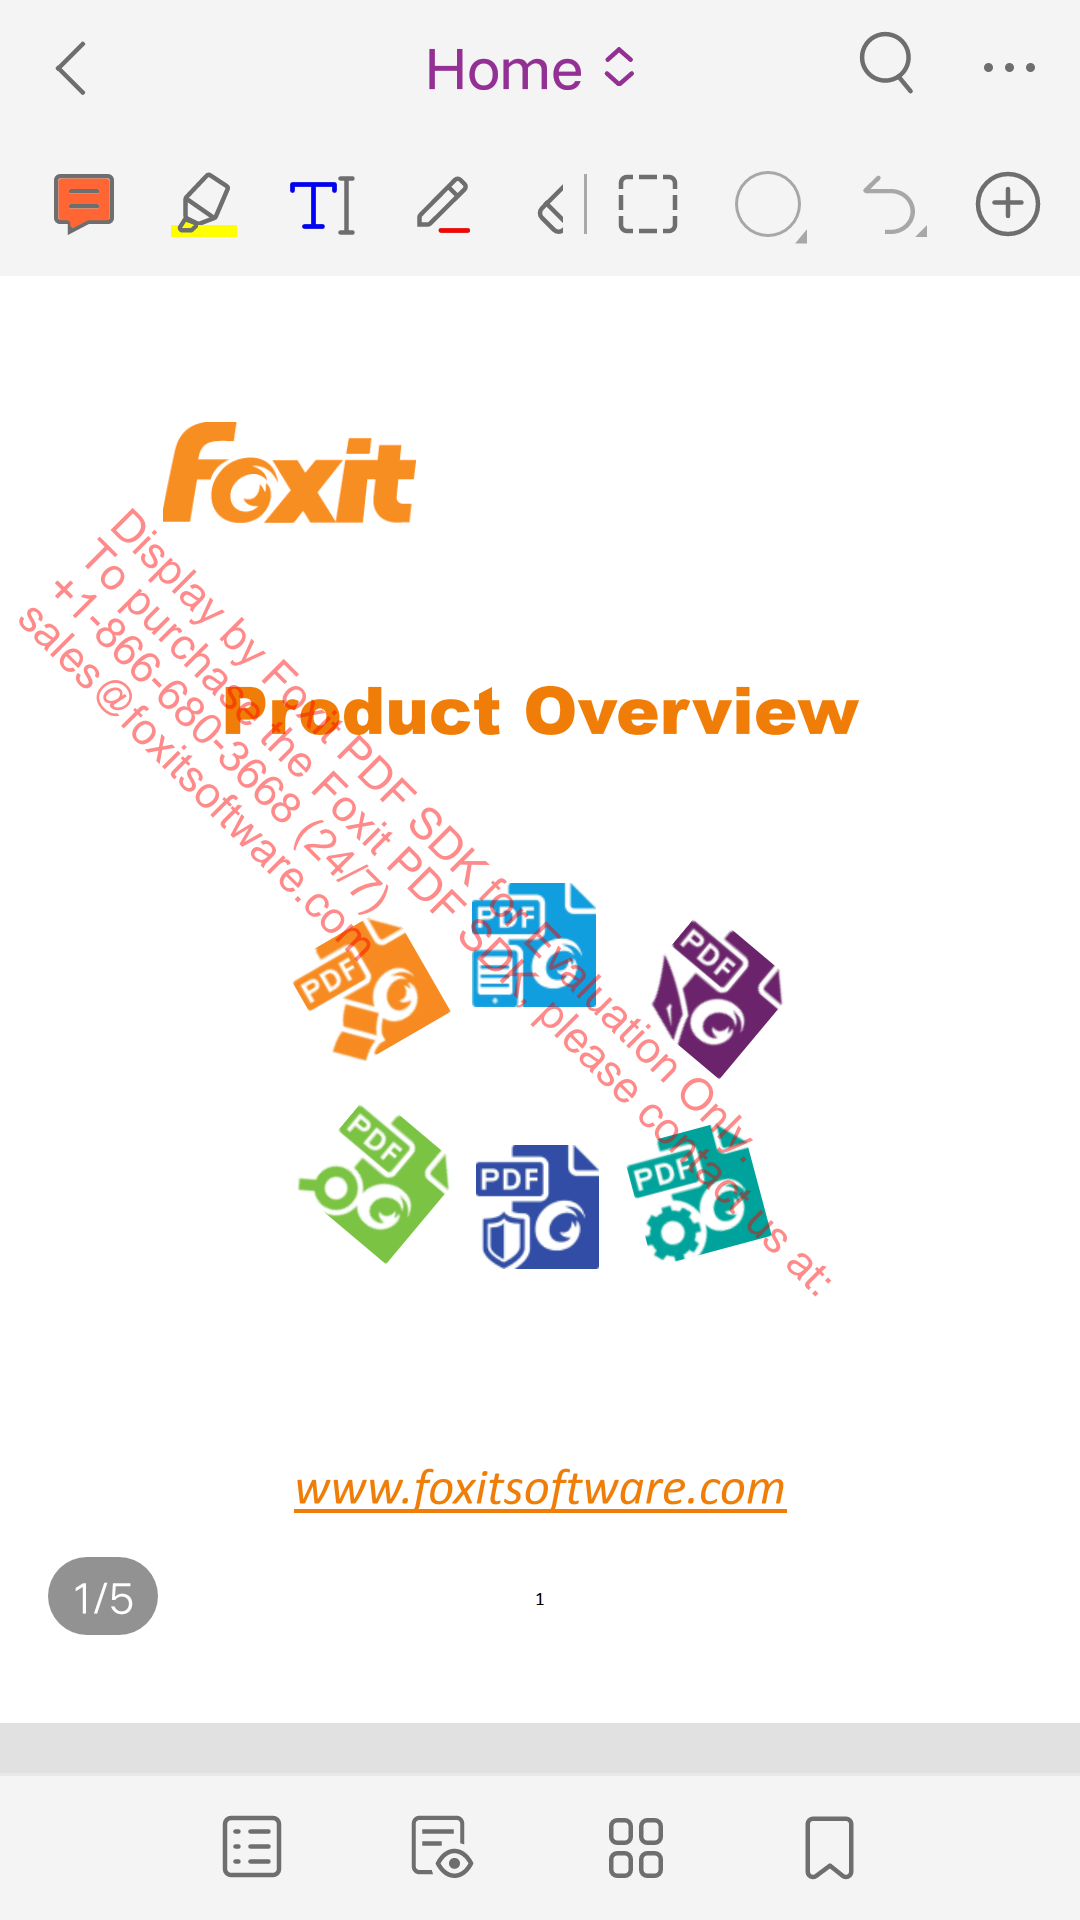
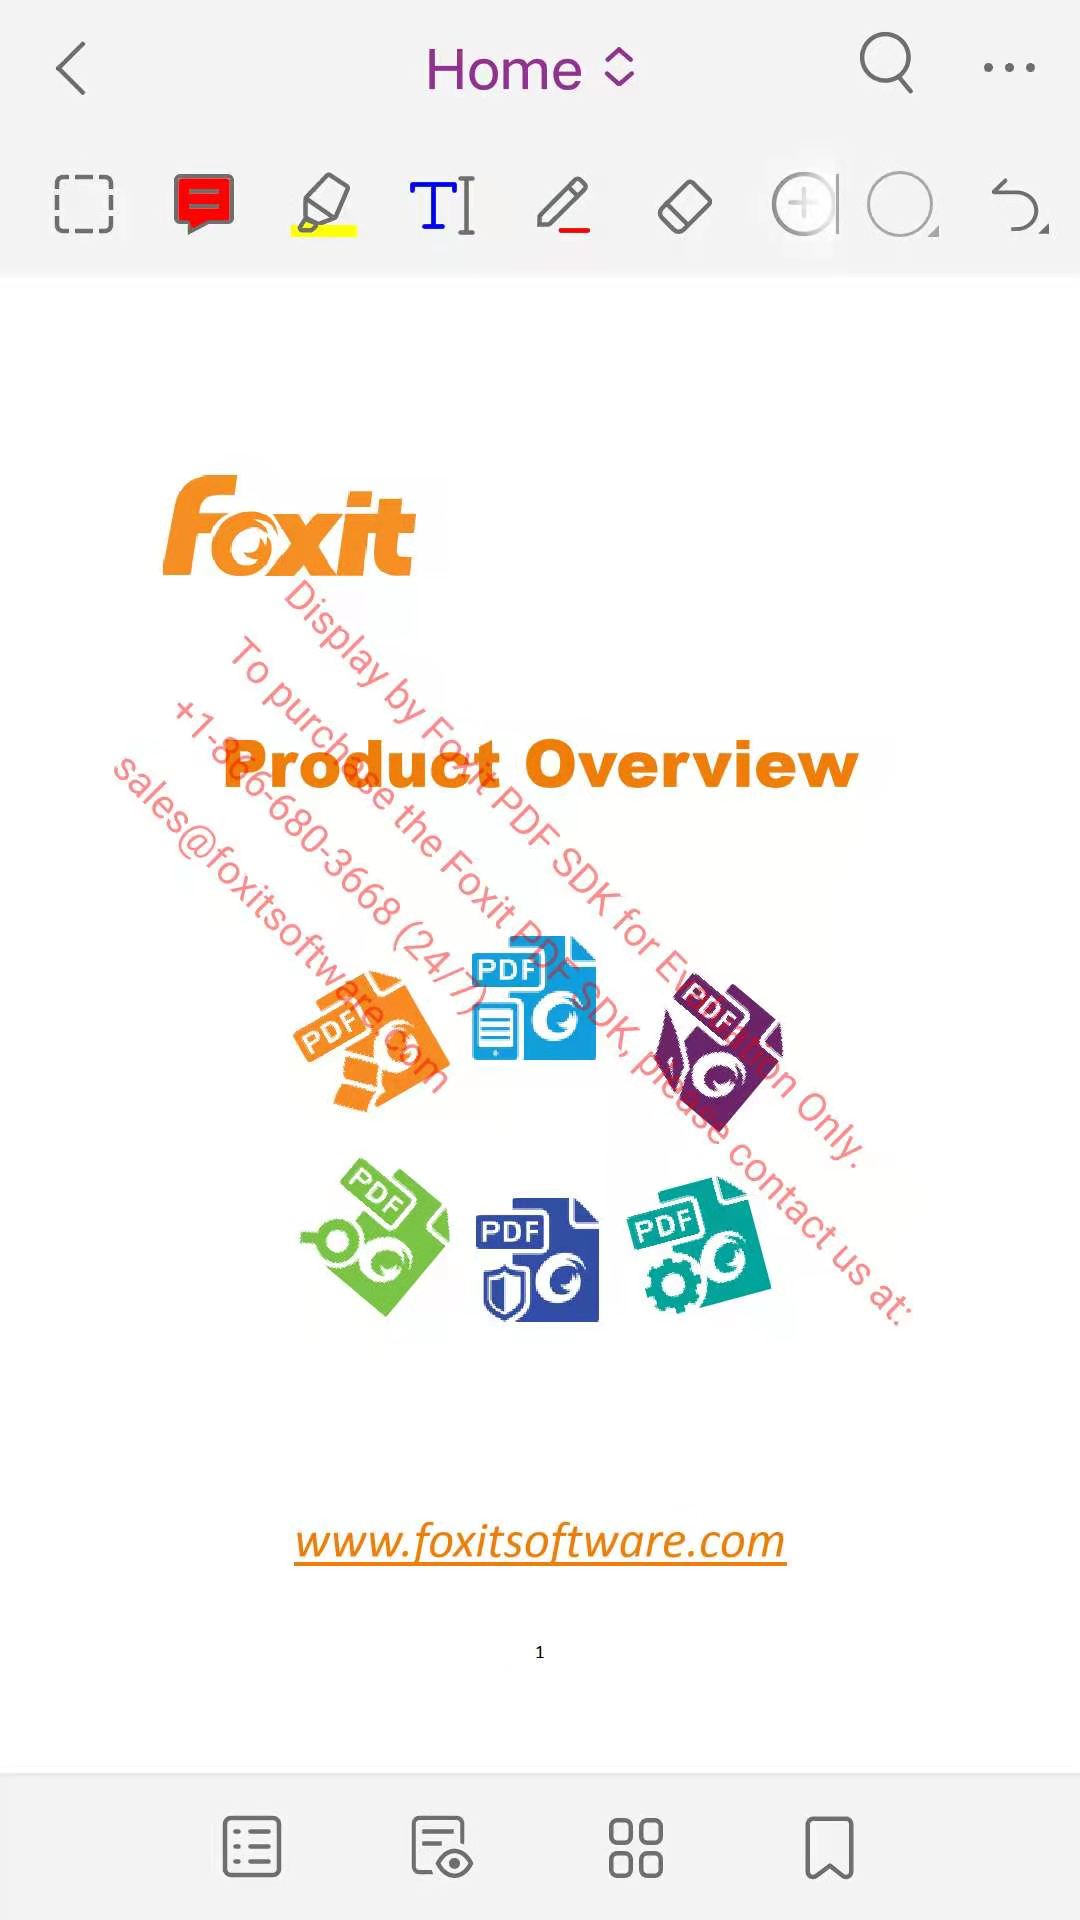
refs#SDKRD-9964 update screenshot of version Foxit Android SDK 8.3

diff --git a/demo/README.md b/demo/README.md
@@ -63,7 +63,7 @@ cordova prepare
 
 ### Xcode run  , click cordova app ’s  preview button .
 Congratulations! You can preview this pdf file now.
-![](https://raw.githubusercontent.com/foxitsoftware/cordova-plugin-foxitpdf/master/demo/readmeimg/cordovademo5.jpg)
+![](https://raw.githubusercontent.com/foxitsoftware/cordova-plugin-foxitpdf/master/demo/readmeimg/cordovademo5.png)
 
 ***
 
